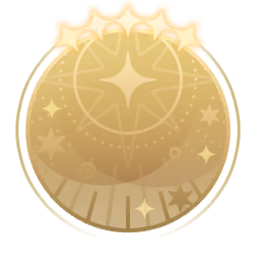
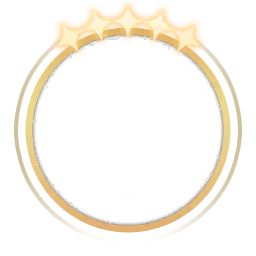
Found better images

diff --git a/src/components/HeartphialRowItem.vue b/src/components/HeartphialRowItem.vue
@@ -79,13 +79,13 @@ const emit = defineEmits<{
 
 .orb {
   position: absolute;
-  bottom: -4px;
+  bottom: -5px;
   left: 50%;
   transform: translateX(-50%);
   width: 52px;
   height: 52px;
   object-fit: contain;
-  z-index: 0;
+  z-index: 1;
   pointer-events: none;
 }
 
@@ -114,7 +114,6 @@ const emit = defineEmits<{
 
 .style-img.is-unowned {
   filter: grayscale(95%);
-  z-index: 1;
 }
 
 .row-info {